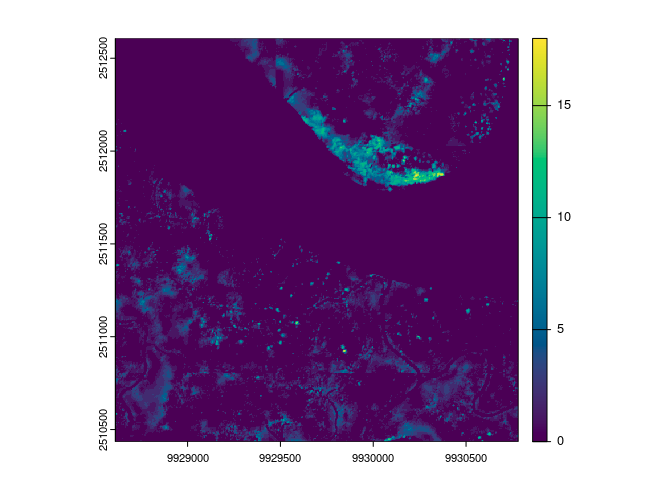
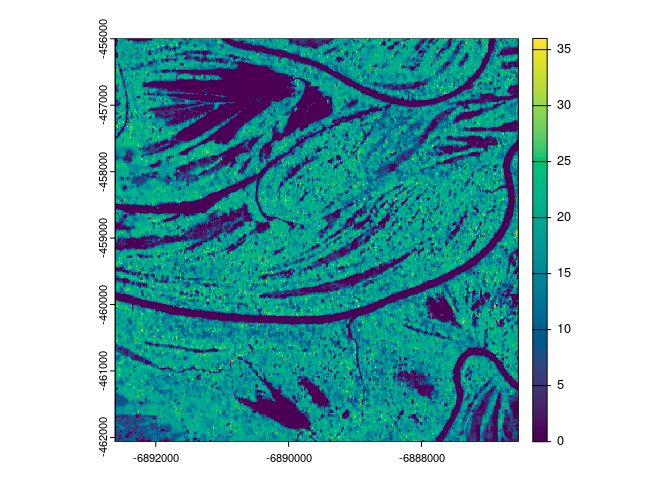
better readme example

diff --git a/README.md b/README.md
@@ -45,15 +45,15 @@ the `res` argument.
 ``` r
 library(chmloader)
 
-sundarbans <- sf::st_point(c(89.2, 22.0)) |>
+parana_cuiana <- sf::st_point(c(-61.89, -4.12)) |>
   sf::st_sfc(crs = 4326) |>
-  sf::st_buffer(1000)
+  sf::st_buffer(3000)
 
-sundarbans_chm <- download_chm(
-  sundarbans,
+pc_chm <- download_chm(
+  parana_cuiana,
   filename = tempfile(fileext = ".tif")
 )
-terra::plot(sundarbans_chm, col = hcl.colors(256, "viridis"))
+terra::plot(pc_chm, col = hcl.colors(256, "viridis"))
 ```
 
 <img src="man/figures/README-example-1.png" width="100%" />
